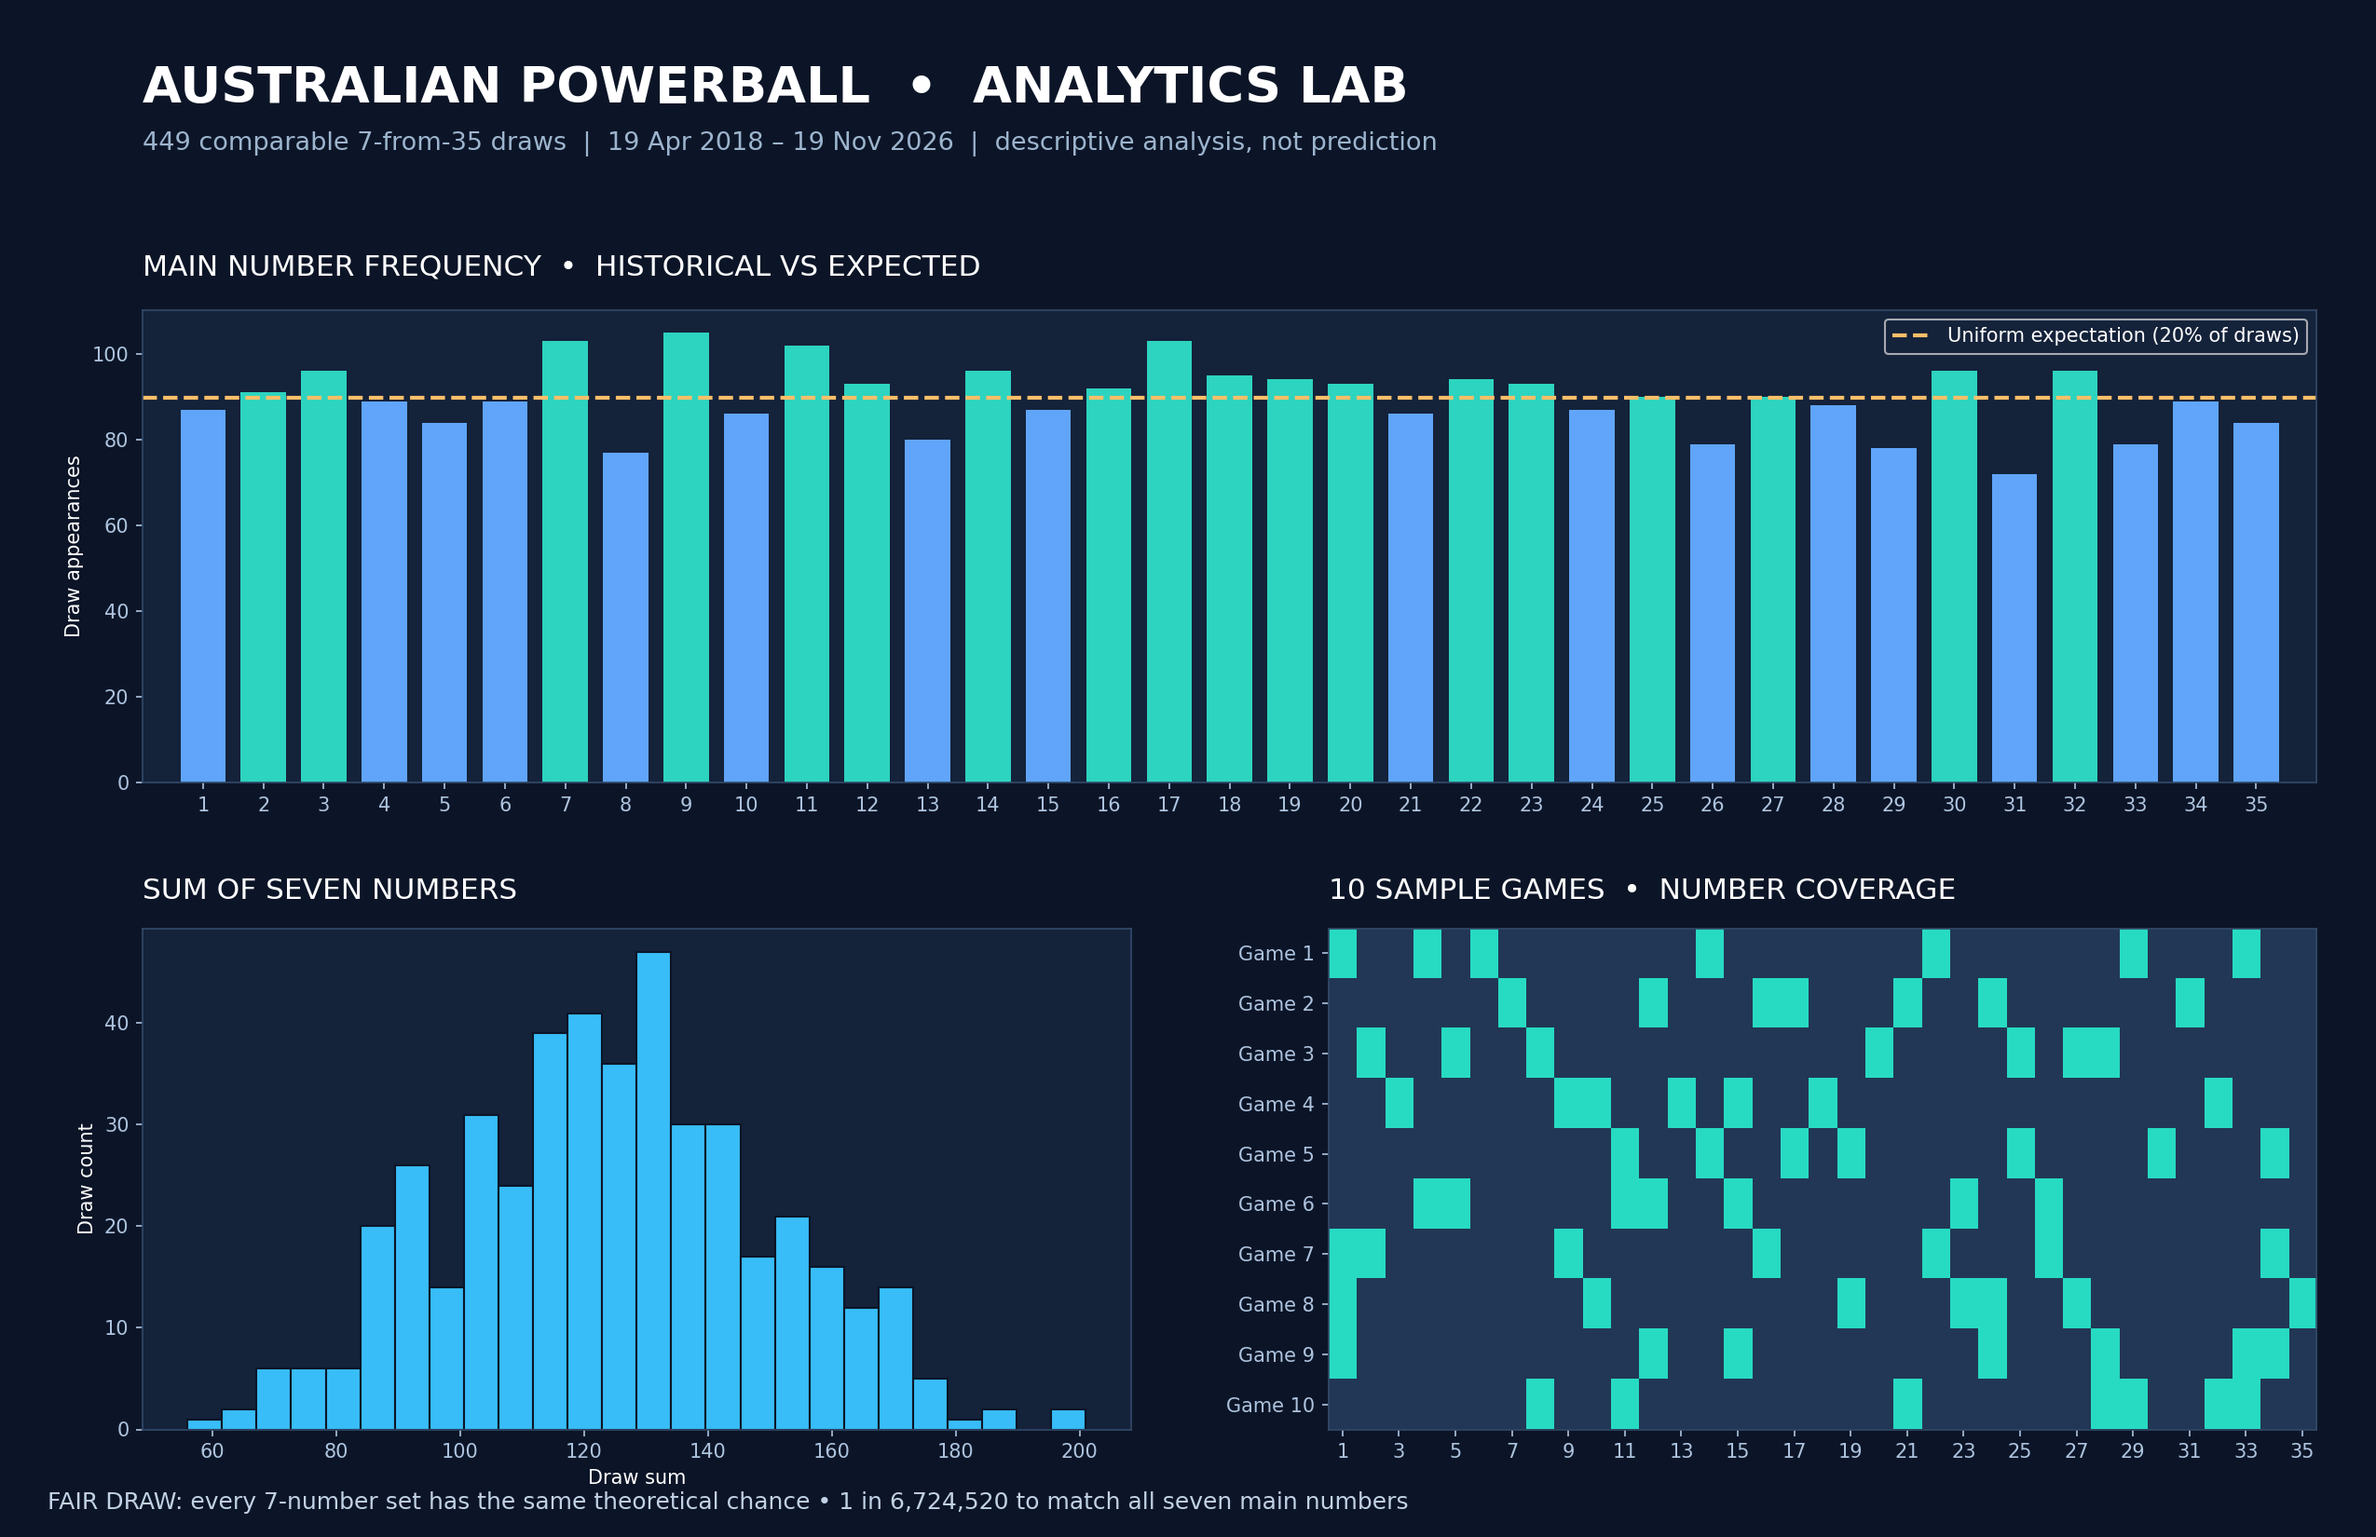
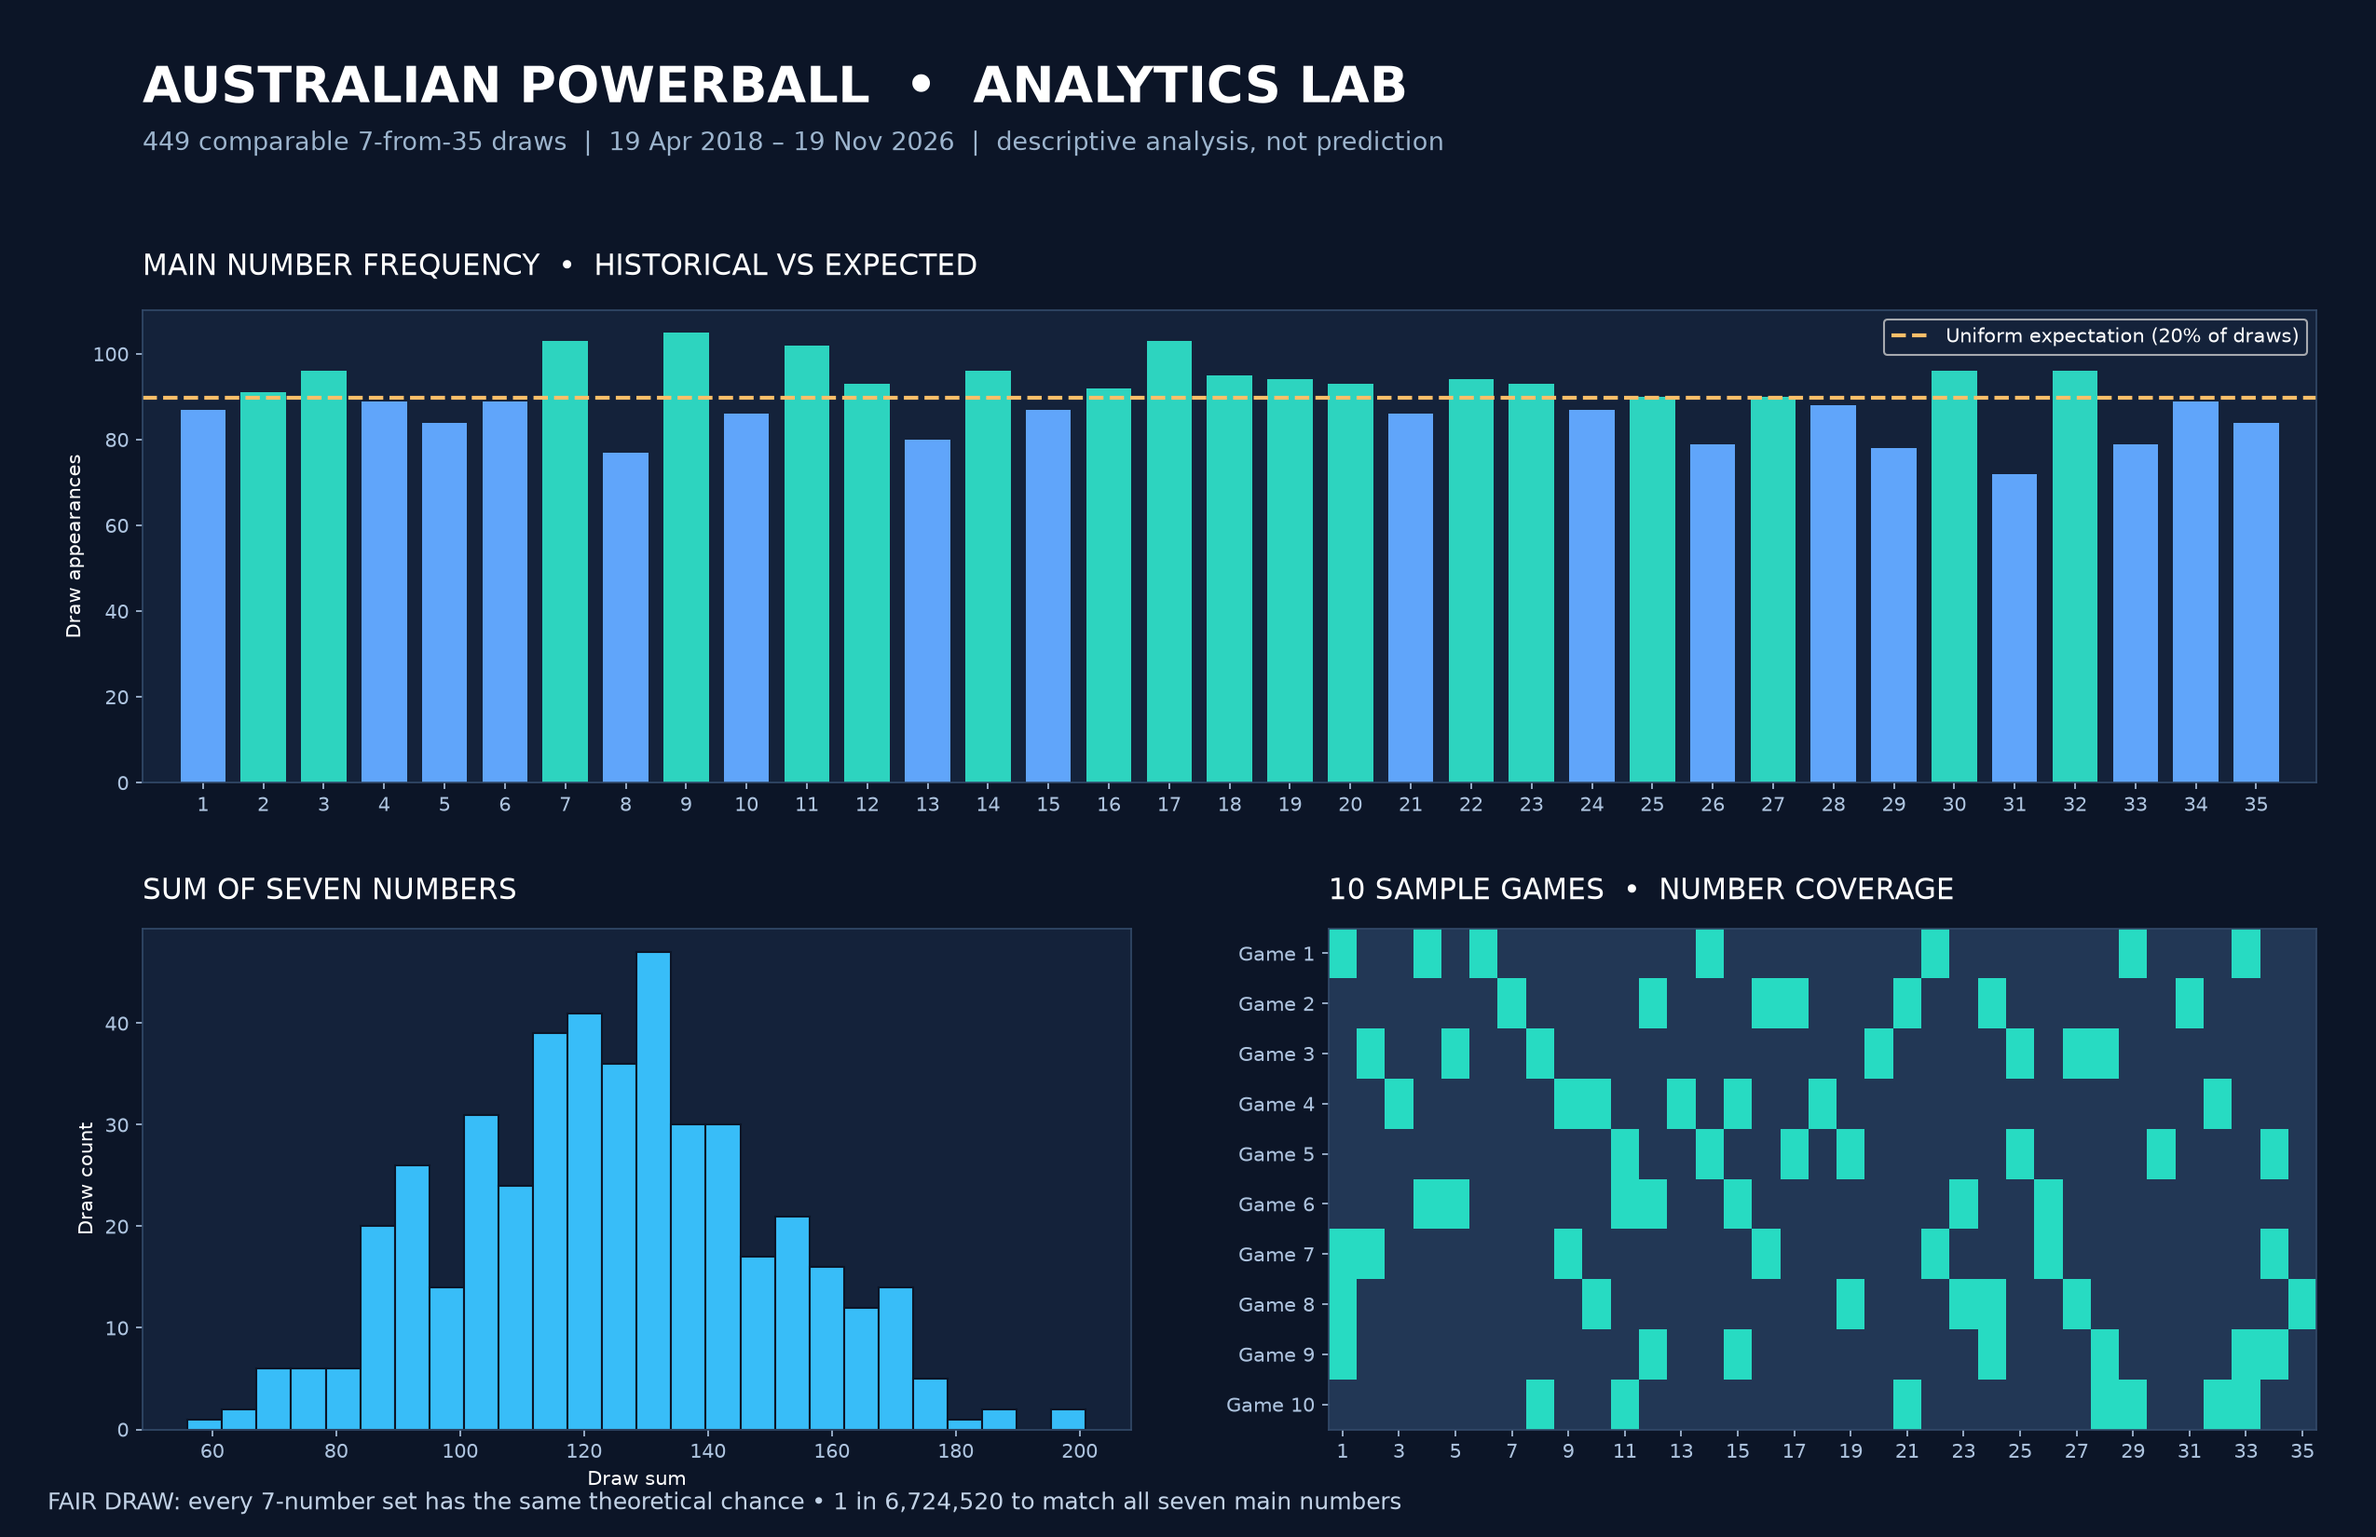
Update Powerball Analytics Lab for Streamlit deployment

diff --git a/Lottery/Powerball/Powerball_Analytics_Lab/app.py b/Lottery/Powerball/Powerball_Analytics_Lab/app.py
@@ -123,7 +123,7 @@ with t_patterns:
         fig.update_layout(height=345)
         st.plotly_chart(fig, use_container_width=True)
     with v2:
-        fig = px.histogram(features, x='Consecutive pairs', title='Adjacent-number pairs per draw', discrete_sequence=['#14b8a6'])
+        fig = px.histogram(features,x='Consecutive pairs',title='Adjacent-number pairs per draw',color_discrete_sequence=['#14b8a6'])
         fig.update_layout(height=390)
         st.plotly_chart(fig, use_container_width=True)
         fig = px.scatter(features, x='Sum', y='Range', color='Odd count', hover_data=['Draw','Date'], title='Sum vs number range')
